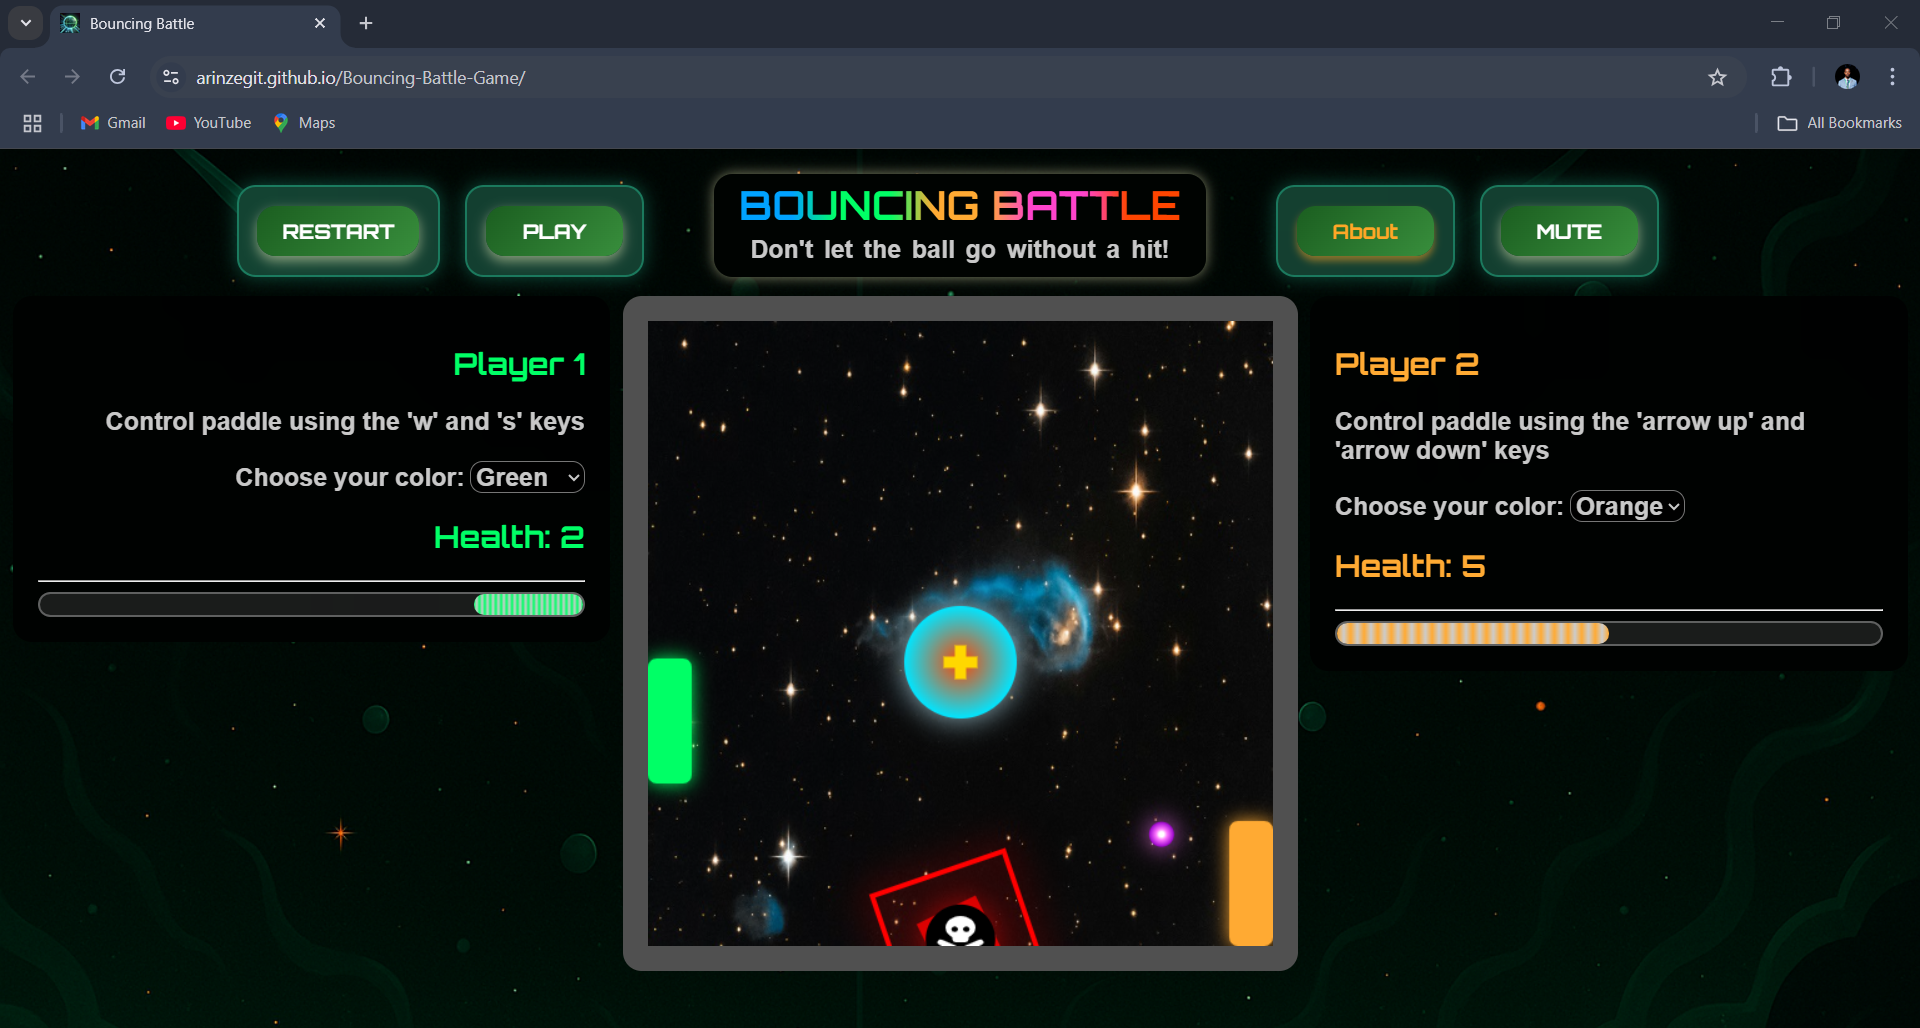
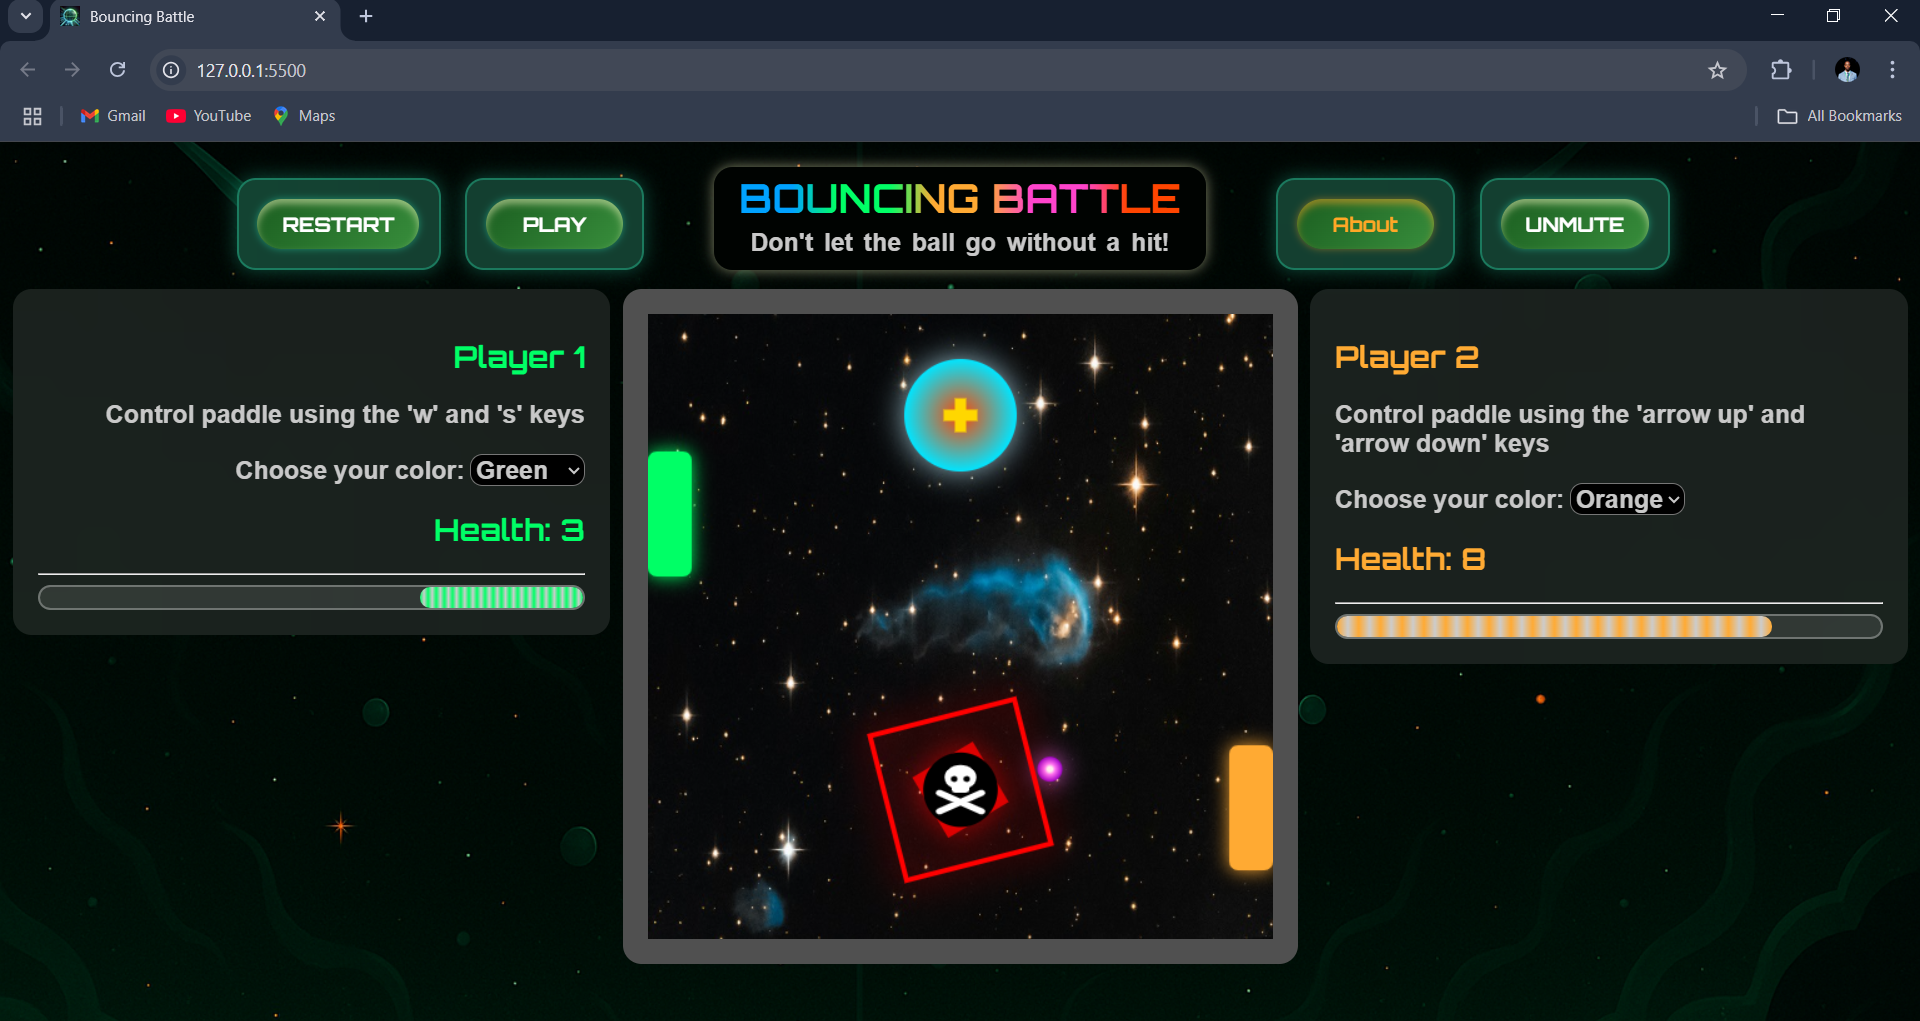
UI polish
- finetune look and feel of buttons

update screenshot image used for README

diff --git a/css/style.css b/css/style.css
@@ -116,38 +116,58 @@ header div.bright-glow{
 
 button {
   min-width:110px;
-  border-radius: 15px;
+  border-radius: 9999px;
   padding: 10px 20px;
-  background: linear-gradient(135deg, #1B5E20, #388E3C); /* Gradient for depth */
+  background: linear-gradient(135deg, #1B5E20, #388E3C);
   color: white;
   border: none;
   cursor: pointer;
   font-size: 16px;
   font-weight: bolder;
   font-family: Orbitron;
-  box-shadow:inset 0 4px 10px rgba(255, 255 ,200, 0.5);
-  outline: none;
+  box-shadow:
+    inset 0 4px 6px rgba(255, 255, 200, 0.5),
+    0 0 6px rgba(48, 255, 200, 0.4); 
   transition: all 0.2s ease-in-out;
 }
 
 button:hover {
   background: linear-gradient(135deg, #2E7D32, #43A047);
-  box-shadow: inset 0 6px 15px rgba(255, 255, 200, 0.8), inset 0 0 8px rgba(48, 255, 200, 0.6);
-  transform: rotate(5deg);
+  transform: scale(1.05) rotate(5deg);
+  background: linear-gradient(135deg, #2E7D32, #43A047);
+  text-shadow: 0 0 5px rgba(255,255,255,0.8);
+  box-shadow: 
+    inset 0 6px 15px rgba(255, 255, 200, 0.8),
+    inset 0 0 8px rgba(48, 255, 200, 0.6),
+    0 0 10px rgba(48, 255, 200, 0.8);
 }
 
 button:active{
   transform: scale(0.8) rotate(5deg);
-  box-shadow: inset 0 0 20px rgba(48, 255, 200, 0.8);
+  box-shadow:
+    inset 0 0 20px rgba(48, 255, 200, 0.8),
+    0 0 8px rgba(48, 255, 200, 0.7);
 }
 
 #dropdownButton {
   color: var(--linkColor);
-  box-shadow: inset 0 4px 6px rgba(255, 167, 38, 0.5);
+  box-shadow:
+    inset 0 4px 6px rgba(255, 167, 38, 0.5),
+    0 0 6px rgba(255, 167, 38, 0.4);
 }
 
 #dropdownButton:hover {
-  box-shadow: inset 0 6px 15px rgba(255, 167, 38, 0.8), inset 0 0 8px rgba(48, 255, 200, 0.6);
+   box-shadow:
+    inset 0 6px 15px rgba(255, 167, 38, 0.8),
+    inset 0 0 8px rgba(255, 230, 150, 0.6),
+    0 0 12px rgba(255, 167, 38, 0.9);
+  text-shadow: 0 0 5px rgba(255, 255, 255, 0.8);
+}
+
+#dropdownButton:active {
+  box-shadow:
+    inset 0 0 20px rgba(255, 200, 100, 0.9),
+    0 0 8px rgba(255, 167, 38, 0.8);
 }
 
 #dropdownButtonDiv {
